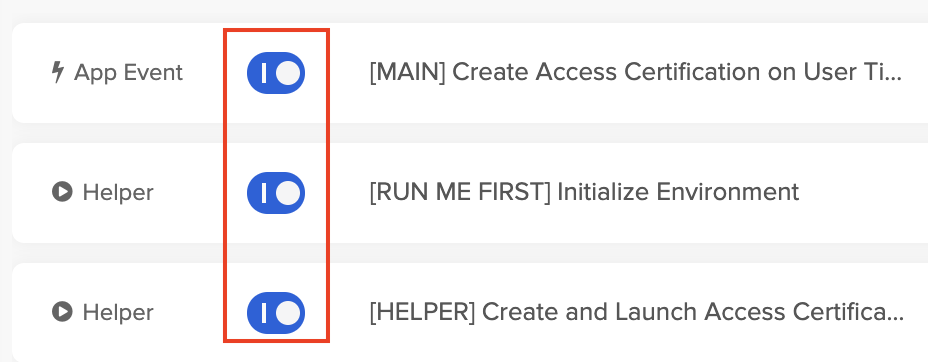
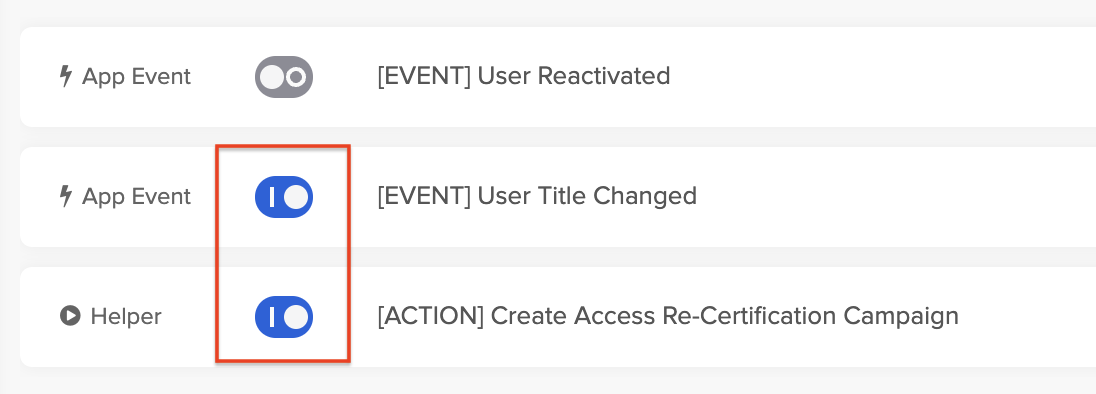
LCM lab updates

Changed region(s): [[0.0312, 0.0608, 0.9688, 0.9724]]

diff --git a/05-governance.md b/05-governance.md
@@ -7,7 +7,7 @@ In this lab, you will navigate the pathways of application access requests, demo
 
 ### Add Okta admin to the IT team
 
-1. In the Okta Admin Console select **Identity Governance** > **Access Requests**. This will open the Access Requests Admin Console in a new browser tab.
+1. In the **Okta Admin Console** select **Identity Governance** > **Access Requests**. This will open the Access Requests Admin Console in a new browser tab.
 1. In the Access Requests Admin Console, select **Teams**.
 1. Click the **IT** team.
 1. Click **Add member**.
@@ -148,10 +148,6 @@ A request type can consist of multiple steps including Questions, Tasks, Approva
 1. Optional. Change the **Connection Nickname**.
 1. Set the **Domain** to `{{idp.name}}.okta.com`
 
-    |||
-     |:-----|:-----|
-     |![Okta Connection Domain](images/011/workflows_connection_okta_domain_600.png "Okta Connection Domain")| |
-
 Keep this page open. You'll need to switch to your Okta Admin Console to get the **Client ID** and **Client Secret** values needed for this Okta Connection and then return to the Workflows console to paste in the values.
 
 ### Copy and paste the Client ID and Client Secret
@@ -202,7 +198,7 @@ This workflow consists of an App Event flow, and a Helper flow.
 1. Click **Save**. This will open the **Save flow** dialog.
     |||
     |:-----|:-----|
-    |![Choose Okta Connection ](images/011/workflows_main_set_okta_connection_600.png "Set Choose Okta Connection")|
+    |![Choose Okta Connection ](images/011/workflows_set_okta_connection_600.png "Set Choose Okta Connection")|
 1. Click **Save**.
 1. In the top left corner, click the **/Employee Lifecycle** icon to return to the Flows page.
 
@@ -212,11 +208,11 @@ This workflow consists of an App Event flow, and a Helper flow.
 1. In the **Search for Lab Admin User** card, click **Choose Connection**, and then click your **Okta** connection. This will cause the card to expand.
 1. Click **Save**. This will open the **Save flow** dialog.
 1. Click **Save**.
-1. In the top left corner, click the **/Employee Lifecycle** icon to return to the Flows page.
+1. In the top left corner, select the **/Employee Lifecycle** link to return to the Flows page.
 
 ### Toggle On the flows
 
-1. Toggle on the App Event and Helper flows.
+1. Toggle on the **User Title Changed** and **Create Access Re-Certification Campaign** flows.
     |||
     |:-----|:-----|
     |![Flows toggled on](images/011/workflows_toggled_on_300.png "Flows toggled on")|
@@ -250,7 +246,7 @@ For the purposes of this lab, we decided to assign the Okta tenant administrator
 
 1. In the Okta Admin Console, click the *waffle* icon in the top right corner, and then select **My end user dashboard**.
 1. In the Okta admin's **End User Dashboard**, launch the **Okta Access Certification Reviews** app.
-1. Click on the **Title Change** access certification campaign to see an overview of the campaign.
+1. Click on the **Title Changed : Re-Certify** access certification campaign to see an overview of the campaign.
 1. You will see all applications assigned to this user.
 
     > For each item, you have three options as a reviewer: Approve (leave the access as is), Revoke (remove access or flag for it to be removed), or Reassign (to another Okta user). You will see the icons or icons and words depending on the screen resolution.

diff --git a/06-lcm-mover-leaver.md b/06-lcm-mover-leaver.md
@@ -4,8 +4,9 @@ In this lab, you will leverage the dynamic integration of Okta with your HR appl
 
 ## Employee Departmental Transfer
 
-1. Sign in to **BambooHR** with the credentials provided in the Launch Pad.
-1. In the BambooHR dashboard search for and select your employee.
+1. In the **Launch Pad** under **BambooHR**, click **Launch**.
+1. Sign in to **BambooHR** with the credentials provided in the **Launch Pad**.
+1. In the BambooHR dashboard search for and select your new employee.
 1. On the **Job** tab, for **Job Information**, click **Add Entry**.
 1. For the **Department**, select **Sales**.
 1. Optional. Select a new **Job Title**.
@@ -15,6 +16,7 @@ In this lab, you will leverage the dynamic integration of Okta with your HR appl
 
 ### Import BambooHR changes to Okta
 
+1. Return to your **Okta Admin Console** browser session.
 1. In the Okta Admin Console select **Applications > Applications**, and then select **BambooHR**.
 1. On the **Import** tab, click **Import Now**.
 1. Click **Ok** when the scan completes.
@@ -23,8 +25,7 @@ In this lab, you will leverage the dynamic integration of Okta with your HR appl
 
 ### Verify changes to Okta End-user Dashboard
 
-In the Virtual Desktop, open a new Chrome window using the Guest profile.
-
+1. Return to your **Virtual Desktop**.
 1. Sign in to your Okta tenant as the New Employee.
 4. Notice that you no longer have access to **Marketo**, but you do have access to **Salesforce**. Your app assignments changed based on the change in your group membership.
 
@@ -55,9 +56,11 @@ In the Virtual Desktop, open a new Chrome window using the Guest profile.
 
     ![alt_text](images/011/flynn_rider_deactivated_okta_600.png "flynn - deactivated")
 
-1. Open a new browser window that is not signed into Okta.
-1. Enter your Okta tenant URL in the browser.
-1. Attempt to authenticate as your test user, and you will receive an error due to your deactivated account status.
+### Verify Terminated Employee has no Access
+
+1. Return to your **Virtual Desktop**.
+1. Attempt to sign in to your Okta tenant as the Terminated Employee.
+1. Verify that you receive an error due to your deactivated account status.
 
 ## Conclusion
 
